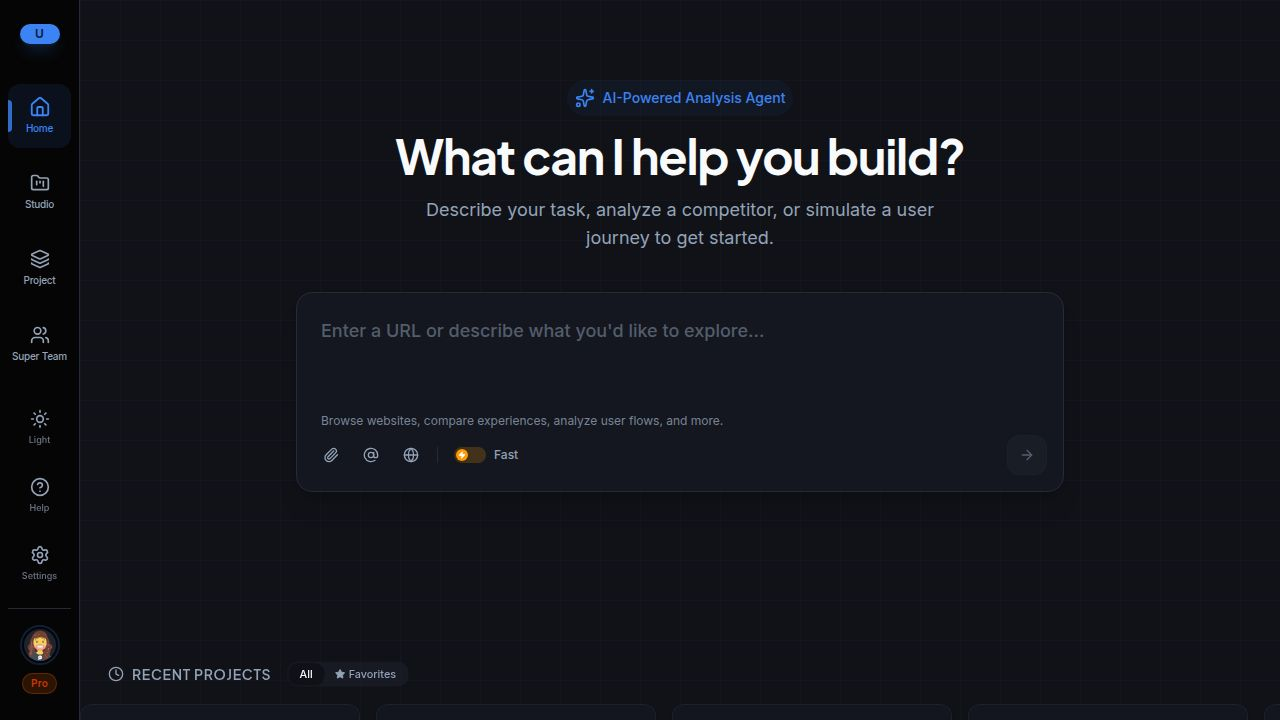
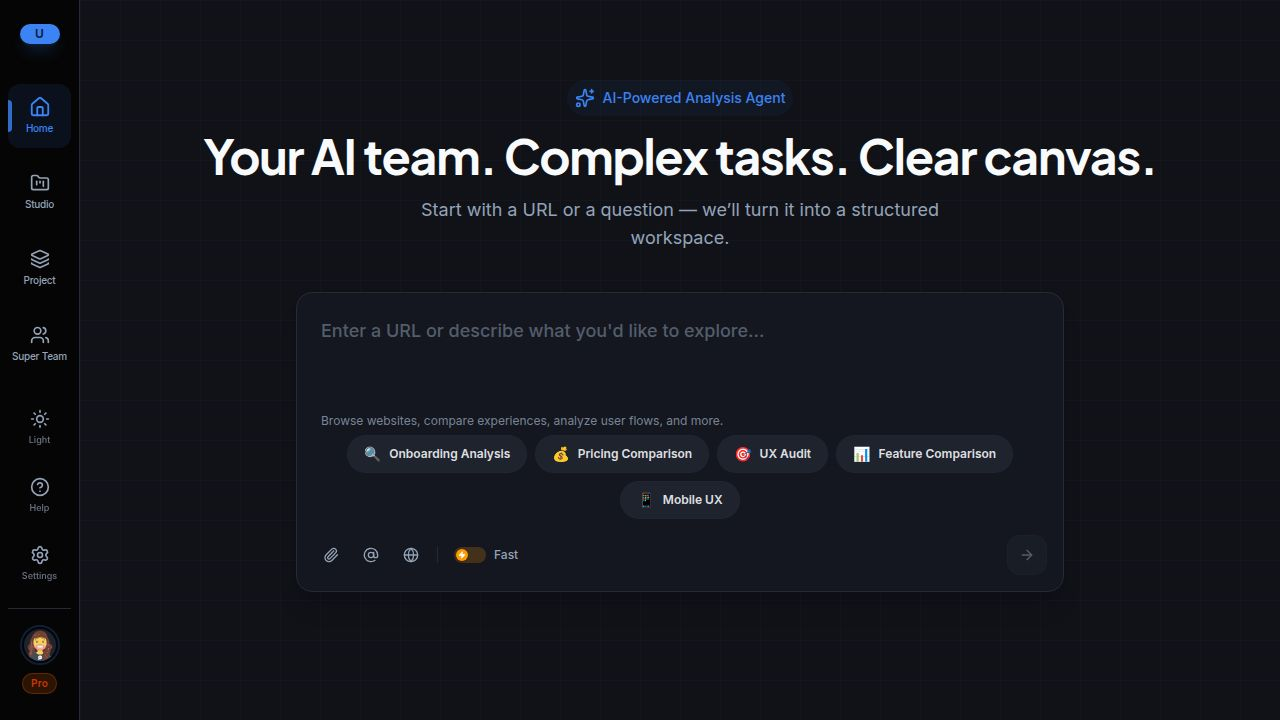
Update home page with new slogan and quick start options
Refactors the Home page to include a new slogan, "Your AI team. Complex tasks. Clear canvas.", and adds "Quick Start" chips below the input field, which populate the input with predefined prompts when clicked.

Replit-Commit-Author: Agent
Replit-Commit-Session-Id: c24184d1-6293-481e-820b-1f8dd8833c02
Replit-Commit-Checkpoint-Type: full_checkpoint
Replit-Commit-Event-Id: c268164c-e939-419d-a69e-72c370183038
Replit-Commit-Screenshot-Url: https://storage.googleapis.com/screenshot-production-us-central1/79161833-a499-40d9-9374-0f55e77ff4c2/c24184d1-6293-481e-820b-1f8dd8833c02/3rzWrt7
Replit-Helium-Checkpoint-Created: true

diff --git a/client/src/pages/Home.tsx b/client/src/pages/Home.tsx
@@ -1067,11 +1067,11 @@ export default function Home() {
                     <Sparkles className="w-5 h-5 text-primary mr-2" />
                     <span className="text-sm font-medium text-primary">AI-Powered Analysis Agent</span>
                 </div>
-                <h1 className="text-4xl font-bold tracking-tight text-foreground sm:text-5xl font-heading">
-                  What can I help you build?
+                <h1 className="text-4xl font-bold tracking-tight text-foreground sm:text-5xl font-heading" data-testid="text-home-slogan">
+                  Your AI team. Complex tasks. Clear canvas.
                 </h1>
-                <p className="text-lg text-muted-foreground max-w-xl mx-auto">
-                  Describe your task, analyze a competitor, or simulate a user journey to get started.
+                <p className="text-lg text-muted-foreground max-w-xl mx-auto" data-testid="text-home-slogan-subtitle">
+                  Start with a URL or a question — we’ll turn it into a structured workspace.
                 </p>
               </div>
 
@@ -1122,6 +1122,52 @@ export default function Home() {
 
                   <div className="px-6 pb-1.5 text-xs text-muted-foreground/80" data-testid="text-home-input-hint">
                     Browse websites, compare experiences, analyze user flows, and more.
+                  </div>
+
+                  <div className="px-6 pb-4" data-testid="section-home-quickstart">
+                    <div className="flex flex-wrap justify-center gap-2" data-testid="list-home-quickstart">
+                      {[
+                        {
+                          icon: "🔍",
+                          label: "Onboarding Analysis",
+                          prompt: "Walk through the signup and onboarding flow of [competitor.com], identify UX strengths and friction points.",
+                        },
+                        {
+                          icon: "💰",
+                          label: "Pricing Comparison",
+                          prompt: "Compare the pricing pages of [company A] and [company B], analyze their pricing strategies and positioning.",
+                        },
+                        {
+                          icon: "🎯",
+                          label: "UX Audit",
+                          prompt: "Audit the user experience of [website.com], focusing on navigation, clarity, and conversion paths.",
+                        },
+                        {
+                          icon: "📊",
+                          label: "Feature Comparison",
+                          prompt: "Compare the feature sets of [product A] and [product B], create a visual comparison.",
+                        },
+                        {
+                          icon: "📱",
+                          label: "Mobile UX",
+                          prompt: "Explore the mobile experience of [website.com], test responsiveness and mobile interactions.",
+                        },
+                      ].map((s) => (
+                        <button
+                          key={s.label}
+                          type="button"
+                          onClick={() => {
+                            setHomeInput(s.prompt);
+                            requestAnimationFrame(() => inputRef.current?.focus());
+                          }}
+                          className="px-4 py-2 rounded-full bg-muted hover:bg-muted/80 text-sm transition-colors flex items-center gap-2 border border-border/50"
+                          data-testid={`chip-home-quickstart-${s.label.replace(/\s+/g, '-').toLowerCase()}`}
+                        >
+                          <span aria-hidden="true" data-testid={`icon-home-quickstart-${s.label.replace(/\s+/g, '-').toLowerCase()}`}>{s.icon}</span>
+                          <span className="text-xs font-semibold text-foreground/90" data-testid={`text-home-quickstart-${s.label.replace(/\s+/g, '-').toLowerCase()}`}>{s.label}</span>
+                        </button>
+                      ))}
+                    </div>
                   </div>
 
                   <div className="flex justify-between items-center p-4 pt-0 border-t-0 bg-transparent">
